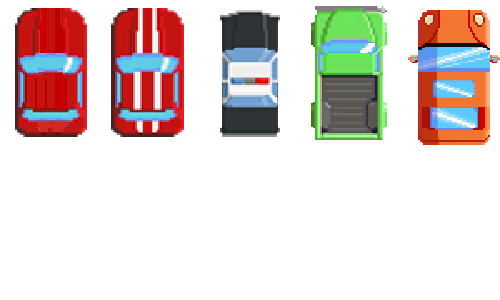
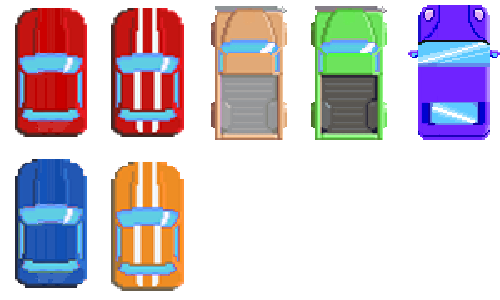
Changes to the UI and tune up difficulty
Added some new images, made a few changes to the UI presentation to fit the new mobile format.

Fixed the mobile bug with the clicking trigger

Added new cars to the spritesheet

diff --git a/src/ts/App.ts b/src/ts/App.ts
@@ -31,7 +31,7 @@ export class GameScene extends Phaser.Scene {
 
     private currentLevel = 1;
     private currentSpeed: number;
-    private inbetweenSpeed = 0.2;
+    private inbetweenSpeed = 0.4;
     private currentGap: number;
     private inbetweenGap = 30;
     private score = 0;
@@ -68,8 +68,8 @@ export class GameScene extends Phaser.Scene {
         });
 
         this.load.spritesheet('lifebar', 'assets/lifebar.png', {
-            frameWidth: 45,
-            frameHeight: 22
+            frameWidth: 90,
+            frameHeight: 44
         });
 
         this.load.spritesheet('carMov', 'assets/car1_anim_mov1.png', {
@@ -97,7 +97,6 @@ export class GameScene extends Phaser.Scene {
 
     startGame() {
         this.tutorial.destroy();
-        this.state = GAME_STATE.RUNNING;
         this.currentSpeed = gv.INITIAL_SPEED;
         this.currentGap = gv.INITIAL_GAP;
         this.lifes = gv.INITIAL_LIFES;
@@ -111,6 +110,7 @@ export class GameScene extends Phaser.Scene {
         this.physics.add.collider(this.enemiesGroup, this.playerCarsGroup, this.carCrash);
 
         this.input.addPointer(3);
+        this.state = GAME_STATE.RUNNING;
     }
 
     update() {
@@ -148,18 +148,14 @@ export class GameScene extends Phaser.Scene {
             }
         }, false);
 
-        scene.input.on('pointerup', () => {
-            if (this.state === GAME_STATE.START) {
-                this.showTutorial();
-            }
-        });
-
         window.addEventListener('keydown', () => {
-            if (this.moveKeys.left.isDown) {
-                this.changeTrack('left');
-            }
-            if (this.moveKeys.right.isDown) {
-                this.changeTrack('right');
+            if (this.state === GAME_STATE.RUNNING) {
+                if (this.moveKeys.left.isDown) {
+                    this.changeTrack('left');
+                }
+                if (this.moveKeys.right.isDown) {
+                    this.changeTrack('right');
+                }
             }
         }, false);
 
@@ -167,19 +163,23 @@ export class GameScene extends Phaser.Scene {
             let xPointer1; 
             let xPointer2;
 
-            if (this.input.pointer1.isDown) {
-                xPointer1 = this.input.pointer1.x;
-            }
-            if (this.input.pointer2.isDown) {
-                xPointer2 = this.input.pointer2.x;
-            }
-
-            if (xPointer1 < gv.CANVAS.WIDTH / 2 || xPointer2 < gv.CANVAS.WIDTH / 2) {
-                this.changeTrack('left');
-            }
-
-            if (xPointer1 >= gv.CANVAS.WIDTH / 2 || xPointer2 >= gv.CANVAS.WIDTH / 2) {
-                this.changeTrack('right');
+            if (this.state === GAME_STATE.START) {
+                this.showTutorial();
+            } else if (this.state === GAME_STATE.RUNNING) {
+                if (this.input.pointer1.isDown) {
+                    xPointer1 = this.input.pointer1.x;
+                }
+                if (this.input.pointer2.isDown) {
+                    xPointer2 = this.input.pointer2.x;
+                }
+    
+                if (xPointer1 < gv.CANVAS.WIDTH / 2 || xPointer2 < gv.CANVAS.WIDTH / 2) {
+                    this.changeTrack('left');
+                }
+    
+                if (xPointer1 >= gv.CANVAS.WIDTH / 2 || xPointer2 >= gv.CANVAS.WIDTH / 2) {
+                    this.changeTrack('right');
+                }
             }
         }
     }
@@ -234,8 +234,7 @@ export class GameScene extends Phaser.Scene {
                 this.inbetweenGap = 30;
                 break;
             case 20:
-                this.inbetweenGap = 15;
-                this.inbetweenSpeed = 0.1;
+                this.inbetweenGap = 20;
                 break;
             case 30:
                 this.inbetweenGap = 10;
@@ -277,20 +276,25 @@ export class GameScene extends Phaser.Scene {
     }
 
     showUI() {
-        this.currentLevelDraw = this.add.text(5, 45, `Score:${this.score}`, {
-            fontSize: '16px'
-        }).setDepth(1.1);
+        const uiScoringBackgroundHeight = 81;
 
-        const firstLifeImage1 = this.add.image(23, 10, 'lifebar', 0).setDepth(2).setOrigin(0, 0);
-        const secondLifeImage1 = this.add.image(68, 10, 'lifebar', 1).setDepth(2).setOrigin(0, 0);
+        this.currentLevelDraw = this.add.text(10, uiScoringBackgroundHeight + 60, `Score:${this.score}`, {
+            font: 'bold 33px Geneva'
+        }).setDepth(1.2);
+
+        const firstLifeImage1 = this.add.image(33, 50, 'lifebar', 0).setDepth(2).setOrigin(0, 0);
+        const secondLifeImage1 = this.add.image(123, 50, 'lifebar', 1).setDepth(2).setOrigin(0, 0);
         this.lifesImageArray.push(firstLifeImage1);
         this.lifesImageArray.push(secondLifeImage1);
 
-        this.add.image(23, 10, 'lifebar', 2).setDepth(1.5).setOrigin(0, 0);
-        this.add.image(68, 10, 'lifebar', 3).setDepth(1.5).setOrigin(0, 0);
+        this.add.image(33, 50, 'lifebar', 2).setDepth(1.5).setOrigin(0, 0);
+        this.add.image(123, 50, 'lifebar', 3).setDepth(1.5).setOrigin(0, 0);
 
-        this.add.image(0, 0, 'UIScoringScreen').setDepth(1).setOrigin(0, 0);
-        this.add.image(5, 8, 'carIcon').setDepth(1).setOrigin(0, 0);
+        this.add.image(0, 30, 'UIScoringScreen').setDepth(1.1).setOrigin(0, 0); //Bigger upper Score Board
+        this.add.image(0, uiScoringBackgroundHeight + 40, 'UIScoringScreen').setDepth(1.1).setOrigin(0, 0); //Bigger upper Score Board
+        //this.add.image(-50, 30 + uiScoringBackgroundHeight + 10, 'UIScoringScreen').setDepth(1.1).setOrigin(0, 0); //Lower Score Board
+
+        this.add.image(5, 50, 'carIcon').setDepth(2).setOrigin(0, 0);
 
         this.add.image(960, 50, 'PauseButton').setDepth(1).setOrigin(0, 0);
     }
@@ -302,7 +306,7 @@ export class GameScene extends Phaser.Scene {
         this.startScreenImgInitialY = startingScreenY;
         this.startScreenImg = this.add.image(startingScreenX, startingScreenY, 'StartScreenImg').setDepth(1).setOrigin(0, 0);
 
-        const startGameText = this.add.text(gv.BACKGROUND.WIDTH / 2, (gv.CANVAS.HEIGHT / 2) + 80, 'start game', {
+        const startGameText = this.add.text(gv.BACKGROUND.WIDTH / 2, (gv.CANVAS.HEIGHT / 2) + 480, 'start game', {
             font: '60px Geneva',
             align: 'center' // the alignment of the text is independent of the bounds, try changing to 'center' or 'right'
         }).setDepth(1.1);
@@ -320,6 +324,7 @@ export class GameScene extends Phaser.Scene {
         const imageHeight = 246;
         const yPosition = gv.CANVAS.HEIGHT / 2 - imageHeight / 2;
         this.tutorial = this.add.image(0, yPosition, 'Tutorial').setDepth(1).setOrigin(0, 0);
+
         setTimeout(() => {
             this.startGame();
         }, 2000);

diff --git a/src/ts/Enemies/EnemySpawner.ts b/src/ts/Enemies/EnemySpawner.ts
@@ -14,11 +14,13 @@ export class EnemySpawner {
 
     public createEnemy() {
         let rndPos = scene.leftCar.getBothPos()[Math.floor(Utils.rndNumber(0, 2))];
-        const currentLeftCar = new NormalEnemy({ x: rndPos, y: -200 }); 
+        let rndSmallSize = Utils.rndNumber(-10, -75);
+        const currentLeftCar = new NormalEnemy({ x: rndPos, y: -200 + rndSmallSize }); 
         this.currentEnemies.push(currentLeftCar);
 
+        rndSmallSize = Utils.rndNumber(-10, -75);
         rndPos = scene.rightCar.getBothPos()[Math.floor(Utils.rndNumber(0, 2))];
-        const currentRightCar = new NormalEnemy({ x: rndPos, y: -200 }); 
+        const currentRightCar = new NormalEnemy({ x: rndPos, y: -200 + rndSmallSize }); 
         this.currentEnemies.push(currentRightCar);
 
         setTimeout(() => {

diff --git a/src/ts/Enemies/NormalEnemy.ts b/src/ts/Enemies/NormalEnemy.ts
@@ -8,7 +8,7 @@ export default class NormalEnemy extends Enemy {
         const normalCarConfig = { 
             ...config,
             imageName: 'cars_sheet',
-            carFrame: Math.floor(Utils.rndNumber(1, 5)),
+            carFrame: Math.floor(Utils.rndNumber(1, 7)),
             currentSpeed: gv.INITIAL_SPEED + scene.getSpeed()
         };
         super(normalCarConfig);

diff --git a/src/ts/Utils/gameValues.ts b/src/ts/Utils/gameValues.ts
@@ -31,6 +31,6 @@ export const POSITION = {
 };
 
 export const TIME_PER_LEVEL = 1000;
-export const INITIAL_GAP = 1600;
-export const INITIAL_SPEED = 2;
+export const INITIAL_GAP = 1400;
+export const INITIAL_SPEED = 4;
 export const INITIAL_LIFES = 2;
